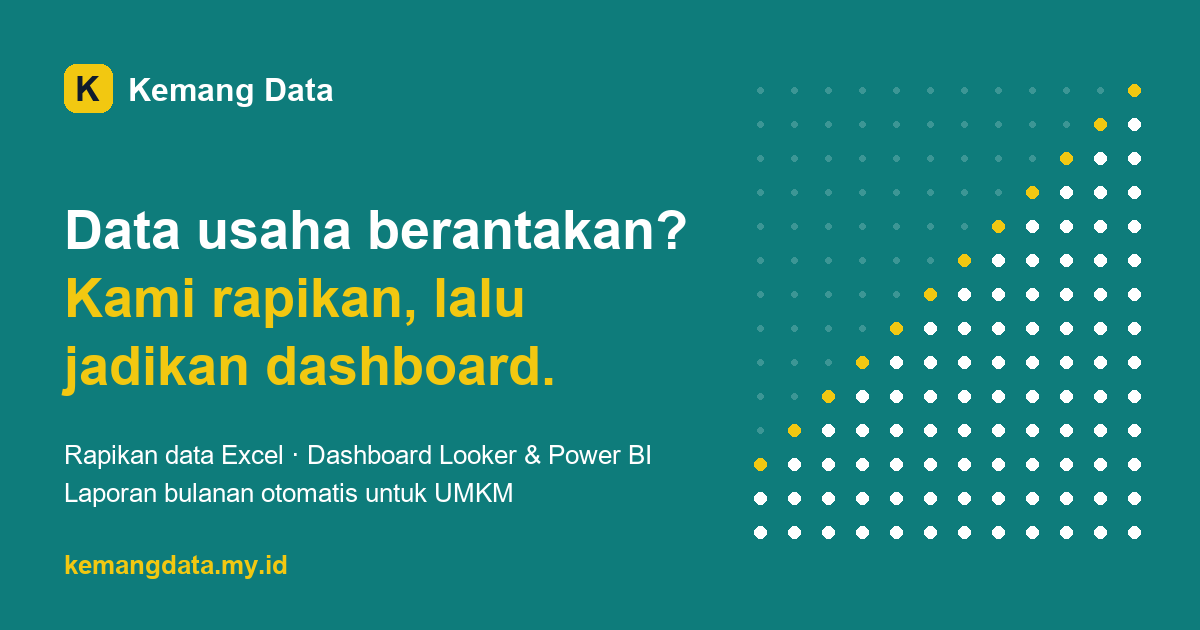
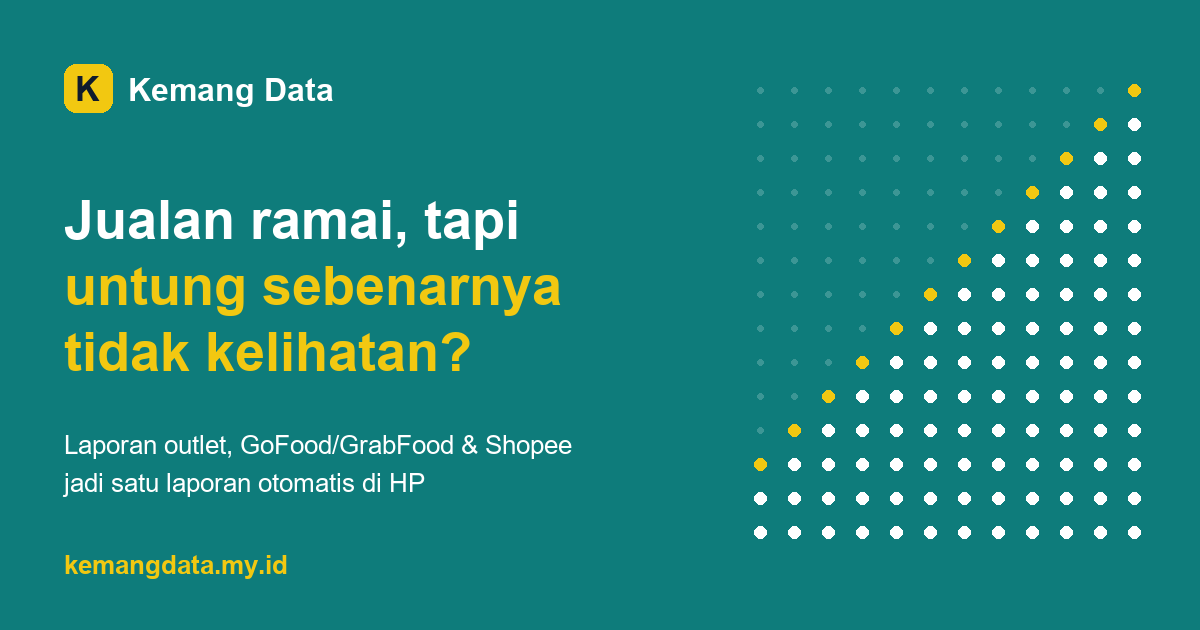
Problem-first messaging: ID for local SMBs, EN for international e-commerce
- ID hero, problems section, showcase with plain-language results, benefit-named packages
- Event case studies moved to a compact 'Proyek lain' section with plain titles
- EN hero and 'Problems I solve' aimed at multi-channel online sellers
- Separate OG images for ID and EN; tools/gen_og.py to regenerate

Changed region(s): [[0.0308, 0.4222, 0.4933, 0.6333], [0.0308, 0.6937, 0.555, 0.8143], [0.0308, 0.3016, 0.5858, 0.3921]]

diff --git a/src/pages/index.html b/src/pages/index.html
@@ -1,21 +1,46 @@
 ---
-title: "Kemang Data | Rapikan Data & Dashboard untuk UMKM"
-description: "Jasa rapikan data Excel / Google Sheets, dashboard penjualan Looker Studio & Power BI, dan laporan bulanan otomatis untuk UMKM. Konsultasi gratis via WhatsApp."
+title: "Kemang Data | Laporan Penjualan Otomatis untuk UMKM"
+description: "Gabungkan laporan outlet, GoFood/GrabFood, dan Shopee jadi satu laporan otomatis di HP. Lihat untung sebenarnya per produk dan per channel. Konsultasi gratis via WhatsApp."
 lang: "id"
 og_type: "website"
 alternates: {id: /, en: /en/, x-default: /}
 scripts: [/assets/js/home.js]
 ---
 <div class="wrap">
-{{ header([["Jasa", "#jasa"], ["Portofolio", "#projects"], ["Kontak", "#contact"], ["EN", "/en/", "en"]], home="/", toggle_label="Ganti mode gelap") }}
+{{ header([["Contoh", "#contoh"], ["Jasa", "#jasa"], ["Kontak", "#contact"], ["EN", "/en/", "en"]], home="/", toggle_label="Ganti mode gelap") }}
 <main>
 <div class="hero2"><div class="hero">
-<h1 class="rv">Data usaha berantakan? Kami rapikan, lalu jadikan dashboard.</h1>
-<p class="rv" style="--d:.15s">Kemang Data membantu UMKM dan tim sales merapikan data Excel / Google Sheets, membuat dashboard penjualan, dan laporan yang ter-update otomatis. Jadi Anda tidak perlu rekap manual tiap minggu.</p>
-<div class="cta rv" style="--d:.3s"><a class="btn" href="{{ wa('Halo Kemang Data, saya mau konsultasi soal data / dashboard usaha saya.') }}">Konsultasi gratis via WhatsApp</a><a class="btn alt" href="#jasa">Lihat paket &amp; harga</a></div>
-<ul class="tools-row rv" style="--d:.45s"><li><svg class="lg" viewBox="0 0 24 24" aria-hidden="true"><rect x="3" y="12" width="4.5" height="9" rx="1.2" fill="#f2c811"/><rect x="9.75" y="7" width="4.5" height="14" rx="1.2" fill="#f2c811"/><rect x="16.5" y="2" width="4.5" height="19" rx="1.2" fill="#e0a800"/></svg>Power BI</li><li><svg class="lg" viewBox="0 0 24 24" aria-hidden="true"><ellipse class="t" cx="12" cy="5.5" rx="7.5" ry="3"/><path class="t" d="M4.5 5.5v13c0 1.7 3.4 3 7.5 3s7.5-1.3 7.5-3v-13c0 1.7-3.4 3-7.5 3s-7.5-1.3-7.5-3z"/><path d="M4.5 12c0 1.7 3.4 3 7.5 3s7.5-1.3 7.5-3" fill="none" stroke="#fff" stroke-opacity=".55"/></svg>SQL</li><li><svg class="lg" viewBox="0 0 24 24" aria-hidden="true"><path d="M11.9 2C7.5 2 7.8 3.9 7.8 3.9v2h4.2v.6H6S3 6.2 3 11s2.6 4.6 2.6 4.6H7v-2.2s-.1-2.6 2.6-2.6h4.2s2.5 0 2.5-2.4V4.5S16.7 2 11.9 2zM9.5 3.5a.8.8 0 110 1.6.8.8 0 010-1.6z" fill="#3776ab"/><path d="M11.9 2C7.5 2 7.8 3.9 7.8 3.9v2h4.2v.6H6S3 6.2 3 11s2.6 4.6 2.6 4.6H7v-2.2s-.1-2.6 2.6-2.6h4.2s2.5 0 2.5-2.4V4.5S16.7 2 11.9 2zM9.5 3.5a.8.8 0 110 1.6.8.8 0 010-1.6z" fill="#ffd43b" transform="rotate(180 12 12)"/></svg>Python</li><li><svg class="lg" viewBox="0 0 24 24" aria-hidden="true"><rect x="2" y="3" width="20" height="18" rx="2.5" fill="#1d6f42"/><path d="M8 8l8 8M16 8l-8 8" stroke="#fff" stroke-width="2.2" stroke-linecap="round"/></svg>Excel</li><li><svg class="lg" viewBox="0 0 24 24" aria-hidden="true"><rect x="2" y="2" width="20" height="20" rx="5" fill="#4285f4"/><rect x="6" y="12" width="3" height="6" rx="1" fill="#fff"/><rect x="10.5" y="8" width="3" height="10" rx="1" fill="#fff"/><rect x="15" y="5" width="3" height="13" rx="1" fill="#fff"/></svg>Looker Studio</li></ul>
+<h1 class="rv">Jualan ramai, tapi untung sebenarnya tidak kelihatan?</h1>
+<p class="rv" style="--d:.15s">Untuk UMKM yang jualan di outlet, GoFood/GrabFood, dan Shopee. Semua laporan kami gabungkan jadi <b>satu laporan otomatis di HP</b>: untung per produk dan per channel langsung kelihatan, tanpa rekap manual.</p>
+<div class="cta rv" style="--d:.3s"><a class="btn" href="{{ wa('Halo Kemang Data, saya mau konsultasi soal laporan penjualan usaha saya.') }}">Konsultasi gratis via WhatsApp</a><a class="btn alt" href="#contoh">Lihat contoh hasil</a></div>
+<p class="fit rv" style="--d:.45s"><span>Cocok untuk:</span> <b>Kedai &amp; resto</b> <b>Toko online</b> <b>Retail &amp; distributor</b></p>
 </div>
 <canvas id="dots" aria-hidden="true"></canvas></div>
+
+<section id="masalah"><h2 class="rv">Masalah yang sering kami bantu</h2>
+<div class="probs">
+<div class="prob rv"><q>Tiap Senin rekap penjualan, bisa setengah hari.</q><p>&rarr; Laporan dari semua channel jadi satu dan ter-update sendiri.</p></div>
+<div class="prob rv" style="--d:.1s"><q>Omzet naik, tapi uangnya segitu-segitu saja.</q><p>&rarr; Untung per channel kelihatan, sudah dipotong komisi aplikasi.</p></div>
+<div class="prob rv" style="--d:.2s"><q>Nggak tahu produk mana yang sebenarnya rugi.</q><p>&rarr; Produk laris vs produk yang bikin stok menumpuk, jelas dalam satu layar.</p></div>
+<div class="prob rv" style="--d:.3s"><q>Nomor pelanggan banyak, tapi berantakan.</q><p>&rarr; Daftar pelanggan rapi tanpa dobel, siap untuk promo WhatsApp.</p></div>
+</div></section>
+
+<section id="contoh"><h2 class="rv">Contoh hasil</h2>
+<p class="lead rv">Kopi Senja: kedai kopi dengan 2 outlet, GoFood/GrabFood, dan Shopee. Usaha dan angkanya fiktif, dibuat untuk menunjukkan hasil yang bisa Anda dapatkan.</p>
+<div class="showcase rv"><a class="shot" href="umkm-sales-dashboard.html"><img src="/assets/img/umkm-sales-dashboard.png" width="1600" height="1000" alt="Contoh laporan penjualan otomatis Kopi Senja (fiktif)" loading="lazy"></a>
+<div><h3>Laporan penjualan otomatis</h3><ul class="wins">
+<li><b>Rekap 4 jam per minggu &rarr; otomatis.</b> Pemilik cukup buka 1 link di HP.</li>
+<li><b>Ketahuan margin GoFood/GrabFood cuma 41%</b>, dibanding 61% di outlet, karena komisi aplikasi.</li>
+<li><b>2 produk bikin stok menumpuk</b> dan disarankan dihentikan.</li>
+<li><b>Jam paling ramai 15.00&ndash;18.00</b>: waktu yang pas untuk tambah karyawan atau promo.</li></ul>
+<a class="more" href="umkm-sales-dashboard.html">Lihat studi kasus lengkap &rarr;</a></div></div>
+<div class="showcase rv"><figure class="shot"><img src="/assets/img/contoh-rapikan-data.png" width="1280" height="960" alt="Contoh data pelanggan sebelum dan sesudah dirapikan (fiktif)" loading="lazy"></figure>
+<div><h3>Data pelanggan dirapikan</h3><ul class="wins">
+<li><b>8 baris berantakan &rarr; 5 pelanggan unik.</b> Data dobel dibuang.</li>
+<li><b>Nomor HP diseragamkan</b> ke format +62, siap untuk WhatsApp.</li>
+<li><b>Typo email diperbaiki</b> (gmial, hotmial, .con) dan nama kota disamakan.</li>
+<li><b>Ada laporan singkat</b> berisi apa saja yang diperbaiki.</li></ul></div></div>
+</section>
 
 <section id="jasa"><h2 class="rv">Jasa &amp; harga</h2>
 <p class="lead rv">Harga mulai dari angka di bawah. Harga final saya sampaikan setelah melihat contoh data Anda, sebelum pekerjaan dimulai. Semua paket termasuk 2x revisi.</p>
@@ -25,18 +50,6 @@ scripts: [/assets/js/home.js]
 {{ plan_card(p, "id") }}
 {% endfor %}
 </div></section>
-
-<section id="projects"><h2 class="rv">Portofolio</h2>
-<div class="grid"><a class="card rv" style="--d:.1s" href="umkm-sales-dashboard.html"><img src="/assets/img/umkm-sales-dashboard-thumb.png" alt="Pratinjau dashboard penjualan UMKM"><div>
-<h3>Dashboard Penjualan UMKM</h3>
-<p>Studi kasus demo: data kasir, GoFood/GrabFood, dan Shopee digabung jadi satu dashboard yang update otomatis. Rekap mingguan tidak lagi manual.</p>
-<ul class="tools"><li>Google Sheets</li><li>Looker Studio</li><li>Excel</li></ul></div></a><a class="card rv" style="--d:.2s" href="powerbi-visitor-dashboard.html"><img src="/assets/img/dashboard.png" alt="Pratinjau dashboard registrasi pengunjung"><div>
-<h3>Dashboard Registrasi Pengunjung</h3>
-<p>3 file registrasi yang berantakan digabung dan dirapikan, lalu dibuat dashboard kehadiran dan performa channel. (Dalam bahasa Inggris)</p>
-<ul class="tools"><li>Power BI</li><li>Power Query</li><li>DAX</li></ul></div></a><a class="card rv" style="--d:.3s" href="exhibition-visitor-360.html"><img src="/assets/img/exhibition-360.png" alt="Pratinjau dashboard Visitor 360"><div>
-<h3>Visitor 360: 3 sistem jadi 1 tabel</h3>
-<p>Skor kualitas data naik dari 75,5% ke 99,0%. Selisih dengan laporan resmi turun dari +157 jadi maksimal 3. (Dalam bahasa Inggris)</p>
-<ul class="tools"><li>BigQuery</li><li>SQL</li><li>Python</li></ul></div></a></div></section>
 
 <section id="cara-kerja"><h2 class="rv">Cara kerja</h2>
 <div class="steps">
@@ -48,7 +61,7 @@ scripts: [/assets/js/home.js]
 <section id="tentang"><h2 class="rv">Tentang Kemang Data</h2>
 <div class="about rv"><img class="avatar" src="/assets/img/bobbi.jpg" alt="Foto Bobbi, pendiri Kemang Data" width="140" height="140"><div>
 <p>Halo, saya <b>Bobbi</b>, pendiri Kemang Data. Sudah 4 tahun saya bekerja di bidang data: menggabungkan data dari banyak sistem, membersihkan data yang berantakan, membuat dashboard di Power BI dan Looker Studio, serta mengotomatiskan laporan yang tadinya dikerjakan manual.</p>
-<p>Kemang Data saya dirikan di Jakarta untuk membawa cara kerja itu ke UMKM: laporan yang rapi, angka yang bisa dipercaya, dan keputusan yang lebih cepat.</p>
+<p>Kemang Data saya dirikan di Jakarta untuk membawa cara kerja itu ke UMKM: laporan yang rapi, angka yang bisa dipercaya, dan keputusan yang lebih cepat. Saya sendiri yang mengerjakan dan membalas chat Anda.</p>
 </div></div></section>
 
 <section id="faq" class="faq"><h2 class="rv">Pertanyaan umum</h2>
@@ -58,10 +71,20 @@ scripts: [/assets/js/home.js]
 <details class="rv"><summary>Bagaimana cara bayarnya?</summary><p>Transfer bank. Untuk proyek di atas Rp1 juta bisa DP 50% di awal dan pelunasan sebelum serah terima. Bisa juga lewat Fastwork atau Upwork.</p></details>
 <details class="rv"><summary>Kalau butuh tambahan di luar paket?</summary><p>Bisa. Saya sampaikan biaya dan waktunya dulu, dan dikerjakan setelah Anda setuju.</p></details>
 </section>
+
+<section id="projects"><h2 class="rv">Proyek lain</h2>
+<p class="lead rv">Bukti kerja dengan data yang lebih besar dan rumit. Halamannya dalam bahasa Inggris.</p>
+<div class="grid small"><a class="card rv" href="powerbi-visitor-dashboard.html"><img src="/assets/img/dashboard.png" alt="Pratinjau dashboard registrasi pengunjung"><div>
+<h3>3 file pendaftaran berantakan jadi 1 laporan rapi</h3>
+<p>6.060 baris dari 3 file digabung, data dobel dibuang, lalu dibuat laporan kehadiran dan channel.</p>
+<ul class="tools"><li>Power BI</li></ul></div></a><a class="card rv" style="--d:.1s" href="exhibition-visitor-360.html"><img src="/assets/img/exhibition-360.png" alt="Pratinjau dashboard Visitor 360"><div>
+<h3>Data dari 3 sistem disatukan, akurasi naik jadi 99%</h3>
+<p>Skor kualitas data dari 75,5% ke 99,0%. Selisih dengan laporan resmi dari +157 jadi maksimal 3.</p>
+<ul class="tools"><li>SQL</li><li>BigQuery</li></ul></div></a></div></section>
 </main></div>
 <section class="page2" id="contact"><div class="wrap"><div class="contact">
-<h2 class="rv">Butuh data yang lebih rapi atau dashboard?</h2>
-<p class="lead rv" style="--d:.15s">Kirim contoh data dan apa yang ingin Anda pantau. Saya balas dengan apa yang bisa dibuat, harga, dan lama pengerjaannya. Gratis.</p>
-<div class="rv" style="--d:.3s"><a class="btn big" href="{{ wa('Halo Kemang Data, saya mau konsultasi soal data / dashboard usaha saya.') }}">Chat WhatsApp</a><a class="btn" href="mailto:{{ site.email }}">Kirim email</a><a class="btn alt" href="{{ site.upwork }}">Profil Upwork</a><a class="btn alt" href="{{ site.linkedin }}">LinkedIn</a></div>
+<h2 class="rv">Mau tahu untung sebenarnya dari tiap channel?</h2>
+<p class="lead rv" style="--d:.15s">Chat saja dan ceritakan usaha Anda. Kalau ada, kirim contoh laporan yang biasa Anda pakai. Saya balas dengan apa yang bisa dibuat, harga, dan lama pengerjaannya. Gratis, tanpa kewajiban.</p>
+<div class="rv" style="--d:.3s"><a class="btn big" href="{{ wa('Halo Kemang Data, saya mau konsultasi soal laporan penjualan usaha saya.') }}">Chat WhatsApp</a><a class="btn" href="mailto:{{ site.email }}">Kirim email</a><a class="btn alt" href="{{ site.linkedin }}">LinkedIn</a></div>
 </div></div></section>
 <div class="wrap"><footer>Kemang Data · Jakarta · kemangdata.my.id · <a href="/en/" hreflang="en" lang="en">English</a></footer></div>

diff --git a/src/pages/en/index.html b/src/pages/en/index.html
@@ -1,21 +1,30 @@
 ---
-title: "Kemang Data | Data Cleaning & Dashboards"
-description: "Kemang Data is a Jakarta analytics studio: data cleaning, Power BI and Looker Studio dashboards, and automated reports."
+title: "Kemang Data | Multi-channel Sales Dashboards & Data Cleaning"
+description: "See your real profit per product and channel. I merge Shopify, Amazon, Etsy and marketplace reports into one dashboard that updates itself. Data cleaning, Looker Studio and Power BI."
 lang: "en"
 og_type: "website"
+og_image: /assets/img/og-image-en.png
 alternates: {id: /, en: /en/, x-default: /}
 scripts: [/assets/js/home.js]
 ---
 <div class="wrap">
-{{ header([["Services", "#services"], ["Projects", "#projects"], ["Contact", "#contact"], ["ID", "/", "id"]], home="/en/", toggle_label="Toggle dark mode") }}
+{{ header([["Problems", "#problems"], ["Services", "#services"], ["Projects", "#projects"], ["Contact", "#contact"], ["ID", "/", "id"]], home="/en/", toggle_label="Toggle dark mode") }}
 <main>
 <div class="hero2"><div class="hero">
-<h1 class="rv">Messy data in. Clear dashboards out.</h1>
-<p class="rv" style="--d:.15s">Kemang Data is a Jakarta analytics studio. We clean the data first, then build the reports on top of it.</p>
-<div class="cta rv" style="--d:.3s"><a class="btn" href="{{ site.upwork }}">Hire me on Upwork</a><a class="btn alt" href="#services">Services &amp; pricing</a></div>
+<h1 class="rv">Selling on several channels but can&rsquo;t see your real profit?</h1>
+<p class="rv" style="--d:.15s">I merge your Shopify, Amazon, Etsy and marketplace reports into <b>one dashboard that updates itself</b>, so you see real profit per product and per channel, after fees. No more copy-pasting exports every week.</p>
+<div class="cta rv" style="--d:.3s"><a class="btn" href="{{ site.upwork }}">Hire me on Upwork</a><a class="btn alt" href="#projects">See an example</a></div>
 <ul class="tools-row rv" style="--d:.45s"><li><svg class="lg" viewBox="0 0 24 24" aria-hidden="true"><rect x="3" y="12" width="4.5" height="9" rx="1.2" fill="#f2c811"/><rect x="9.75" y="7" width="4.5" height="14" rx="1.2" fill="#f2c811"/><rect x="16.5" y="2" width="4.5" height="19" rx="1.2" fill="#e0a800"/></svg>Power BI</li><li><svg class="lg" viewBox="0 0 24 24" aria-hidden="true"><ellipse class="t" cx="12" cy="5.5" rx="7.5" ry="3"/><path class="t" d="M4.5 5.5v13c0 1.7 3.4 3 7.5 3s7.5-1.3 7.5-3v-13c0 1.7-3.4 3-7.5 3s-7.5-1.3-7.5-3z"/><path d="M4.5 12c0 1.7 3.4 3 7.5 3s7.5-1.3 7.5-3" fill="none" stroke="#fff" stroke-opacity=".55"/></svg>SQL</li><li><svg class="lg" viewBox="0 0 24 24" aria-hidden="true"><path d="M11.9 2C7.5 2 7.8 3.9 7.8 3.9v2h4.2v.6H6S3 6.2 3 11s2.6 4.6 2.6 4.6H7v-2.2s-.1-2.6 2.6-2.6h4.2s2.5 0 2.5-2.4V4.5S16.7 2 11.9 2zM9.5 3.5a.8.8 0 110 1.6.8.8 0 010-1.6z" fill="#3776ab"/><path d="M11.9 2C7.5 2 7.8 3.9 7.8 3.9v2h4.2v.6H6S3 6.2 3 11s2.6 4.6 2.6 4.6H7v-2.2s-.1-2.6 2.6-2.6h4.2s2.5 0 2.5-2.4V4.5S16.7 2 11.9 2zM9.5 3.5a.8.8 0 110 1.6.8.8 0 010-1.6z" fill="#ffd43b" transform="rotate(180 12 12)"/></svg>Python</li><li><svg class="lg" viewBox="0 0 24 24" aria-hidden="true"><rect x="2" y="3" width="20" height="18" rx="2.5" fill="#1d6f42"/><path d="M8 8l8 8M16 8l-8 8" stroke="#fff" stroke-width="2.2" stroke-linecap="round"/></svg>Excel</li><li><svg class="lg" viewBox="0 0 24 24" aria-hidden="true"><rect x="2" y="2" width="20" height="20" rx="5" fill="#4285f4"/><rect x="6" y="12" width="3" height="6" rx="1" fill="#fff"/><rect x="10.5" y="8" width="3" height="10" rx="1" fill="#fff"/><rect x="15" y="5" width="3" height="13" rx="1" fill="#fff"/></svg>Looker Studio</li></ul>
 </div>
 <canvas id="dots" aria-hidden="true"></canvas></div>
+
+<section id="problems"><h2 class="rv">Problems I solve</h2>
+<div class="probs">
+<div class="prob rv"><q>I spend hours every week copying exports.</q><p>&rarr; Every channel lands in one dashboard that refreshes itself.</p></div>
+<div class="prob rv" style="--d:.1s"><q>Sales are up, but where does the money go?</q><p>&rarr; Profit per channel after platform fees and commissions.</p></div>
+<div class="prob rv" style="--d:.2s"><q>I don&rsquo;t know which products actually make money.</q><p>&rarr; Best sellers vs slow movers per product, on one screen.</p></div>
+<div class="prob rv" style="--d:.3s"><q>My customer list is a mess.</q><p>&rarr; One clean, deduplicated list, ready for email or SMS campaigns.</p></div>
+</div></section>
 
 <section id="services"><h2 class="rv">Services &amp; pricing</h2>
 <p class="lead rv">Fixed-price packages, 2 rounds of revisions included. Final scope and price are confirmed in writing before work starts.</p>
@@ -28,8 +37,8 @@ scripts: [/assets/js/home.js]
 
 <section id="projects"><h2 class="rv">Projects</h2>
 <div class="grid"><a class="card rv" style="--d:.1s" href="/en/small-business-sales-dashboard.html"><img src="/assets/img/umkm-sales-dashboard-thumb.png" alt="Small business sales dashboard preview"><div>
-<h3>Small Business Sales Dashboard</h3>
-<p>Demo case: POS, food-delivery and marketplace exports merged into one auto-updating dashboard. No more weekly manual recap.</p>
+<h3>Multi-channel sales dashboard</h3>
+<p>Demo case: in-store POS, food-delivery apps and a marketplace merged into one auto-updating dashboard. Weekly recap time: ~4 hours to zero.</p>
 <ul class="tools"><li>Google Sheets</li><li>Looker Studio</li><li>Excel</li></ul></div></a><a class="card rv" style="--d:.2s" href="/powerbi-visitor-dashboard.html"><img src="/assets/img/dashboard.png" alt="Event Visitor Registration Dashboard preview"><div>
 <h3>Event Visitor Registration Dashboard</h3>
 <p>Combined 3 messy registration files, cleaned them, and built a dashboard for attendance and channel performance.</p>

diff --git a/assets/css/style.css b/assets/css/style.css
@@ -93,6 +93,26 @@ pre{font:14px/1.55 ui-monospace,Consolas,monospace;background:var(--code);color:
 .plan .ask{margin-top:auto;font-weight:500;text-decoration-color:var(--yellow);text-decoration-thickness:2px;text-underline-offset:3px}
 .tag{align-self:flex-start;font-size:12px;font-weight:500;background:var(--yellow);color:#101b2d;padding:2px 9px;border-radius:999px;margin:0 0 8px}
 
+.plan .via{margin:2px 0 0;font-size:13px;color:var(--muted)}
+
+/* ---- 7b. Masalah klien, contoh hasil, "cocok untuk" ---- */
+.fit{display:flex;flex-wrap:wrap;align-items:center;gap:8px;margin:22px 0 0;font-size:15px;color:var(--muted)}
+.fit b{font-weight:500;color:var(--ink);background:var(--panel);border:1px solid var(--line);border-radius:999px;padding:4px 12px}
+.probs{display:grid;grid-template-columns:repeat(auto-fit,minmax(min(240px,100%),1fr));gap:16px}
+.prob{background:var(--panel);border:1px solid var(--line);border-left:5px solid var(--yellow);border-radius:4px;padding:16px 18px}
+.prob q{display:block;font:700 18px/1.3 "Familjen Grotesk",sans-serif;quotes:"“" "”"}
+.prob p{margin:10px 0 0;color:var(--muted);font-size:15px}
+.showcase{display:grid;grid-template-columns:minmax(0,1.35fr) minmax(0,1fr);gap:clamp(20px,3vw,44px);align-items:center;margin:0 0 28px}
+.showcase .shot{display:block;margin:0}
+.showcase figure.shot img{cursor:default}
+.showcase h3{font-size:22px;margin:0 0 10px}
+.wins{margin:0 0 12px;padding-left:20px}
+.wins li{margin:0 0 8px}
+.more{font-weight:500;text-decoration-color:var(--yellow);text-decoration-thickness:2px;text-underline-offset:3px}
+.grid.small{grid-template-columns:repeat(auto-fit,minmax(min(300px,100%),1fr))}
+.grid.small .card h3{font-size:18px}
+@media(max-width:860px){.showcase{grid-template-columns:1fr}}
+
 /* ---- 8. Cara kerja, tentang, FAQ ---- */
 .steps{display:grid;grid-template-columns:repeat(auto-fit,minmax(min(240px,100%),1fr));gap:16px}
 .step{background:var(--panel);border:1px solid var(--line);border-radius:4px;padding:16px 18px}
@@ -181,12 +201,11 @@ a.btn:focus-visible{outline:3px solid var(--yellow);outline-offset:3px}
 /* ---- 13. Layar besar & kecil ---- */
 @media(min-width:900px) and (min-height:650px){
 .hero2{min-height:calc(100vh - 70px)}
-#projects{min-height:calc(100vh - 70px);display:flex;flex-direction:column;justify-content:center}
 .page2{margin-top:0}
 }
 @media(max-width:1000px){.case{grid-template-columns:1fr;min-height:0}.case h1{max-width:none}.case .views .shot img{max-height:none}}
 @media(max-width:860px){.page2 .contact{grid-template-columns:1fr}.page2 .contact>div:last-child{grid-column:1;grid-row:auto}}
 @media(max-width:760px){.hero2{grid-template-columns:1fr}.hero2 canvas{height:230px}}
 @media(max-width:600px){.about{grid-template-columns:1fr}.avatar{width:110px;height:110px;font-size:44px}}
-@media(max-width:520px){.top{padding:14px 16px}.top a{margin-left:12px;font-size:15px}.top a.brand{font-size:18px;gap:8px}.tg{margin-left:12px}.wrap{padding:0 16px}.top nav a[href="#jasa"],.top nav a[href="#services"]{display:none}}
+@media(max-width:520px){.top{padding:14px 16px}.top a{margin-left:12px;font-size:15px}.top a.brand{font-size:18px;gap:8px}.tg{margin-left:12px}.wrap{padding:0 16px}.top nav a[href="#jasa"],.top nav a[href="#services"],.top nav a[href="#problems"]{display:none}}
 @media(max-width:380px){.top nav a[href$="#contact"]{display:none}}

diff --git a/src/layouts/macros.html b/src/layouts/macros.html
@@ -27,7 +27,7 @@ https://wa.me/{{ site.whatsapp }}?text={{ pesan|urlencode }}
 {%- set t = p.tingkat[0] -%}
 <div class="plan{% if p.get("unggulan") %} hl{% endif %} rv">
 {%- if p.get("unggulan") %}<span class="tag">{{ p.label_en if en else p.label }}</span>{% endif -%}
-<h3>{{ p.nama_en if en else p.nama }}</h3><p class="price">{% if en %}${{ t.usd }}{% else %}{{ rupiah(t.harga) }}{% endif %}<small>{{ p.satuan_en if en else p.satuan }}</small></p>
+<h3>{{ p.nama_en if en else p.nama }}</h3>{% set alat = p.get("alat_en") if en else p.get("alat") %}{% if alat %}<p class="via">{{ alat }}</p>{% endif %}<p class="price">{% if en %}${{ t.usd }}{% else %}{{ rupiah(t.harga) }}{% endif %}<small>{{ p.satuan_en if en else p.satuan }}</small></p>
 <ul>{% for i in (p.web_isi_en if en else p.web_isi) %}<li>{{ i }}</li>{% endfor %}</ul>
 {%- if not en %}<a class="ask" href="{{ wa(p.wa) }}">Tanya paket ini &rarr;</a>{% endif -%}
 </div>

diff --git a/tools/gen_og.py b/tools/gen_og.py
@@ -1,0 +1,48 @@
+"""Gambar preview link (Open Graph) 1200x630 untuk WhatsApp, LinkedIn, dll.
+
+    python tools/gen_og.py assets/img/og-image.png          # versi Indonesia
+    python tools/gen_og.py assets/img/og-image-en.png en    # versi Inggris
+
+Ubah HEADLINE / SUB di bawah kalau pesan utama website berubah.
+"""
+import sys
+from PIL import Image, ImageDraw, ImageFont
+
+TEXT = {
+    "id": (["Jualan ramai, tapi", "untung sebenarnya", "tidak kelihatan?"],
+           ["Laporan outlet, GoFood/GrabFood & Shopee", "jadi satu laporan otomatis di HP"]),
+    "en": (["Selling on many", "channels but can't see", "your real profit?"],
+           ["Shopify, Amazon, Etsy & marketplace reports", "in one dashboard that updates itself"]),
+}
+HEADLINE, SUB = TEXT[sys.argv[2] if len(sys.argv) > 2 else "id"]
+FONT = "C:/Windows/Fonts/" if sys.platform == "win32" else "/usr/share/fonts/truetype/dejavu/"
+TEAL, YEL, INK, WHITE = (14, 124, 123), (242, 200, 17), (16, 27, 45), (255, 255, 255)
+
+
+def f(size, bold=False):
+    if sys.platform == "win32":
+        return ImageFont.truetype(FONT + ("arialbd.ttf" if bold else "arial.ttf"), size)
+    return ImageFont.truetype(FONT + ("DejaVuSans-Bold.ttf" if bold else "DejaVuSans.ttf"), size)
+
+
+im = Image.new("RGB", (1200, 630), TEAL)
+d = ImageDraw.Draw(im)
+for i in range(12):  # motif titik & batang, sama seperti hero website
+    for j in range(14):
+        on = j >= 14 - (3 + i)
+        r = 6 if on else 3
+        x, y = 760 + i * 34, 90 + j * 34
+        if x > 1160:
+            continue
+        top = on and j == 14 - (3 + i)
+        d.ellipse((x - r, y - r, x + r, y + r), fill=YEL if top else (WHITE if on else (60, 150, 149)))
+d.rounded_rectangle((64, 64, 112, 112), 12, fill=YEL)
+d.text((75, 70), "K", font=f(34, True), fill=INK)
+d.text((128, 72), "Kemang Data", font=f(32, True), fill=WHITE)
+for k, line in enumerate(HEADLINE):
+    d.text((64, 190 + k * 66), line, font=f(54, True), fill=WHITE if k == 0 else YEL)
+for k, line in enumerate(SUB):
+    d.text((64, 430 + k * 38), line, font=f(26), fill=WHITE)
+d.text((64, 550), "kemangdata.my.id", font=f(26, True), fill=YEL)
+im.save(sys.argv[1], optimize=True)
+print("saved", sys.argv[1])

diff --git a/CHANGELOG.md b/CHANGELOG.md
@@ -2,6 +2,9 @@
 
 Paling baru di atas. Satu baris per PR.
 
+## 2026-11-21
+- PR #7: Pesan website diubah jadi berbasis masalah klien. ID untuk UMKM lokal (hero, "Masalah yang sering kami bantu", Contoh hasil, nama jasa = manfaat, proyek event dikecilkan). EN untuk toko online internasional (hero + "Problems I solve").
+
 ## 2026-11-20
 - PR #6: Versi Inggris dilengkapi (Cara kerja, Tentang + foto, FAQ, paket bulanan $120) + studi kasus UMKM versi Inggris.
 - PR #5: Foto di bagian Tentang dibuat lebih lebar dan tajam.
